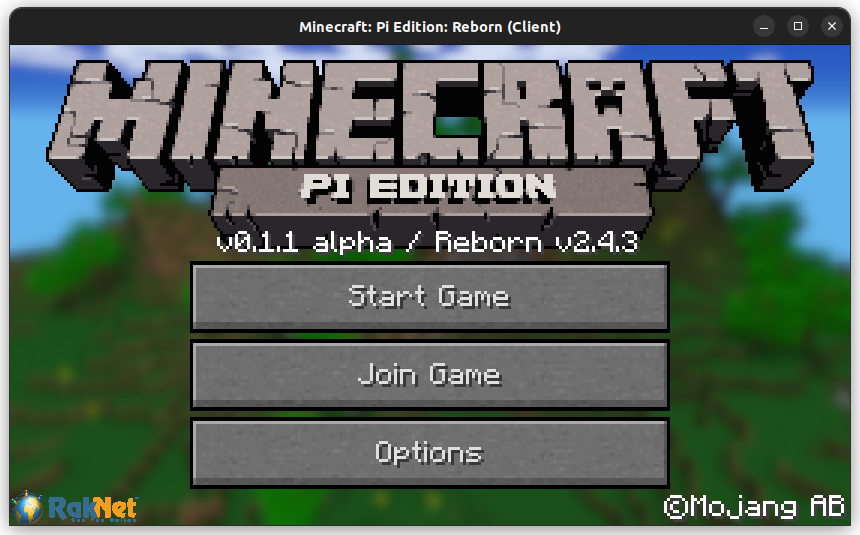
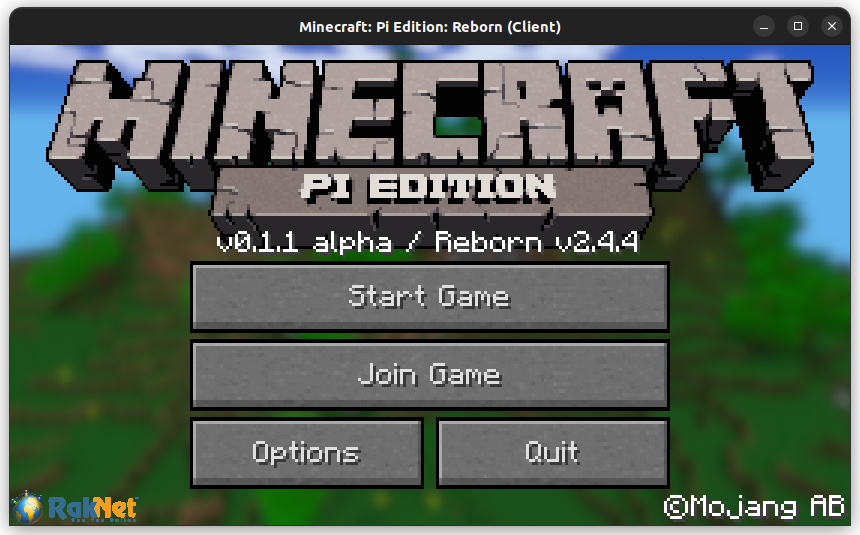
2.4.4

Changed region(s): [[0.2721, 0.7776, 0.5744, 0.9271], [0.6047, 0.8075, 0.6953, 0.8673], [0.7256, 0.4187, 0.7558, 0.4785]]

diff --git a/docs/CHANGELOG.md b/docs/CHANGELOG.md
@@ -1,5 +1,21 @@
 # Changelog
 
+**2.4.4**
+* Cache Previous Launcher Configuration
+* Add ``MCPI_API_PORT`` Environmental Variable
+* Fix Particles In Front-Facing View
+* Fixed Launch Crash On Ubuntu ARM64
+  * PatchELF Replaced With LIEF
+* Moved ``3D Anaglyph`` Feature Flag To Options Screen
+* Add ``Improved Classic Title Screen`` Feature Flag (Enabled By Default)
+  * Add Quit button
+  * Add Options Button (Moved From ``Fix Options Screen`` Feature Flag)
+* Add ``Disable Speed Bridging`` Feature Flag (Disabled By Default)
+* Add ``Disable Creative Mode Mining Delay`` Feature Flag (Disabled By Default)
+* Improved Feature Flag Names
+* Miscellaneous Bug Fixes
+* Improved Build System
+
 **2.4.3**
 * Fix Signs With CP-437
 
